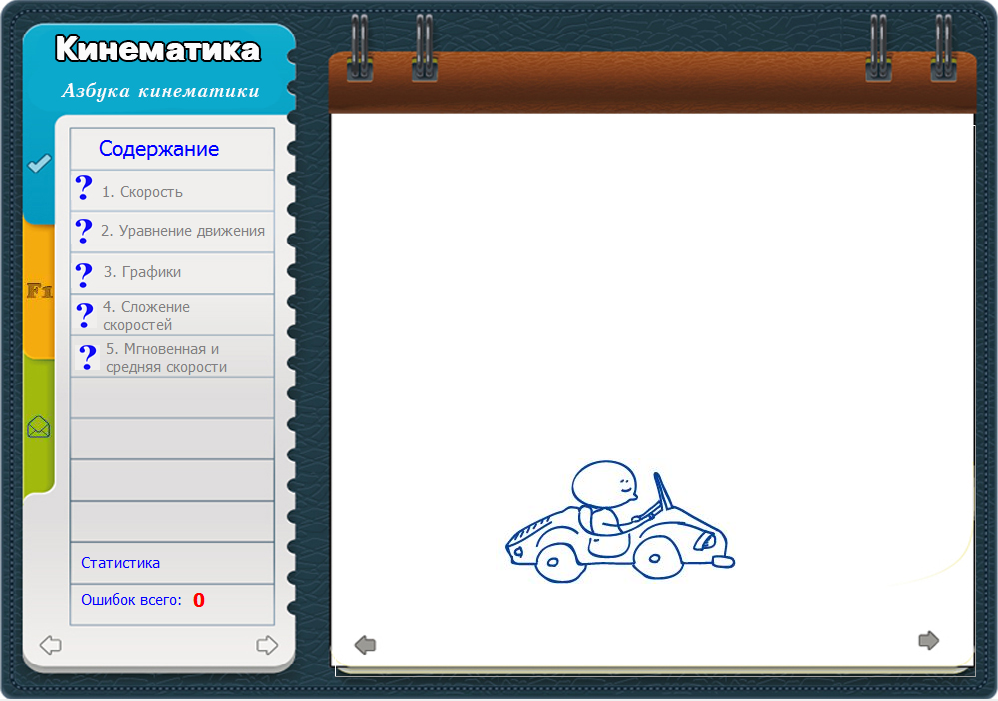
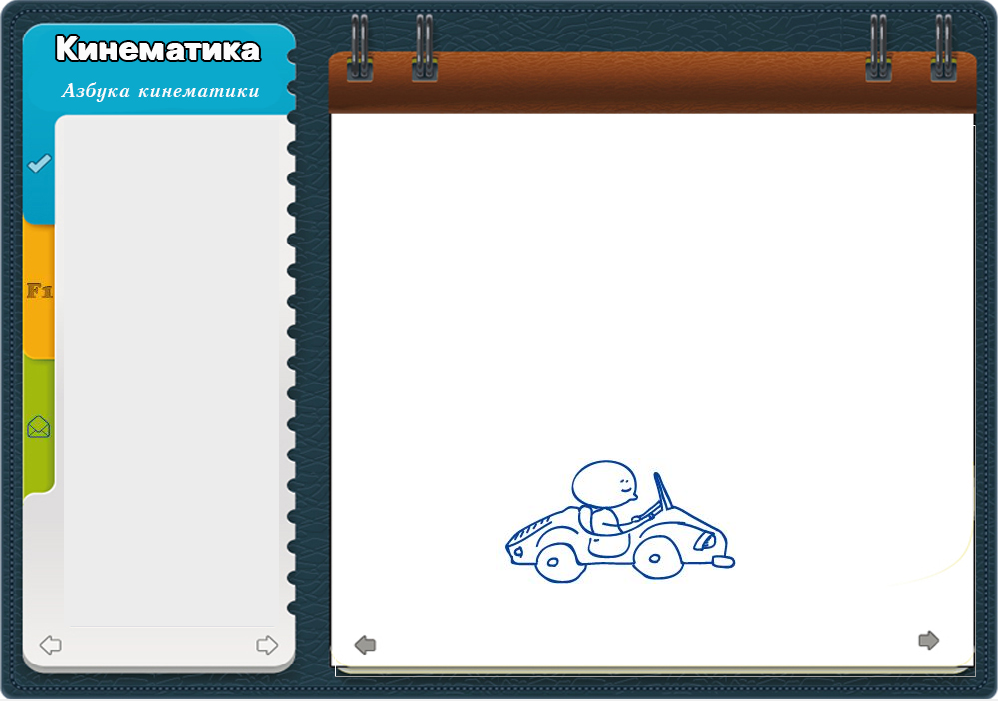
Fix

diff --git a/src/blocks/main/main.css b/src/blocks/main/main.css
@@ -1,12 +1,13 @@
 .main {
     display: grid;
     grid-template-columns: 1fr 4fr;
+    grid-template-rows: repeat(6, 1fr);
     
     
     width: 98%;
-    
+    height: 800px;
     align-items: center;
-    background-image: url(../../images/background.PNG);
+   /* background-image: url(../../images/background.PNG);*/
     background-repeat: no-repeat;
     
 }

diff --git a/src/components/Menu.js b/src/components/Menu.js
@@ -23,7 +23,7 @@ class Link extends React.Component {
     render() {
         const url ="/" + this.props.label;
         return <div>
-            <a href={url}>{this.props.label}</a>
+            <a className="menu__link" href={url}> {this.props.label}</a>
         </div>
     }
 }

diff --git a/src/index.css b/src/index.css
@@ -17,3 +17,4 @@ code {
 @import url(./blocks/main/__left/main__left.css);
 @import url(./blocks/main/__right/main__right.css);
 @import url(./blocks/menu/menu.css);
+@import url(./blocks/menu/__link/menu__link.css);

diff --git a/src/components/Main.js b/src/components/Main.js
@@ -4,7 +4,7 @@ function Main() {
     return(
 <div className="main">
     <div className="main__left">
-        
+       
     <Menu />
     </div>
     <div className="main__right">

diff --git a/src/blocks/menu/menu.css b/src/blocks/menu/menu.css
@@ -1,7 +1,9 @@
 .menu {
     display: grid;
-    grid-row: 5;
+    grid-row: 6;
     gap: 20px;
     margin: 179px 0 50px  100px;
     position: relative;
+    
+    
 }

diff --git a/src/blocks/menu/__link/menu__link.css b/src/blocks/menu/__link/menu__link.css
@@ -1,0 +1,6 @@
+.menu__link {
+    text-decoration: none;
+   color: rgba(96, 98, 98, 0.76);
+        line-height: 20px;
+        grid-row-start: 3;
+}
